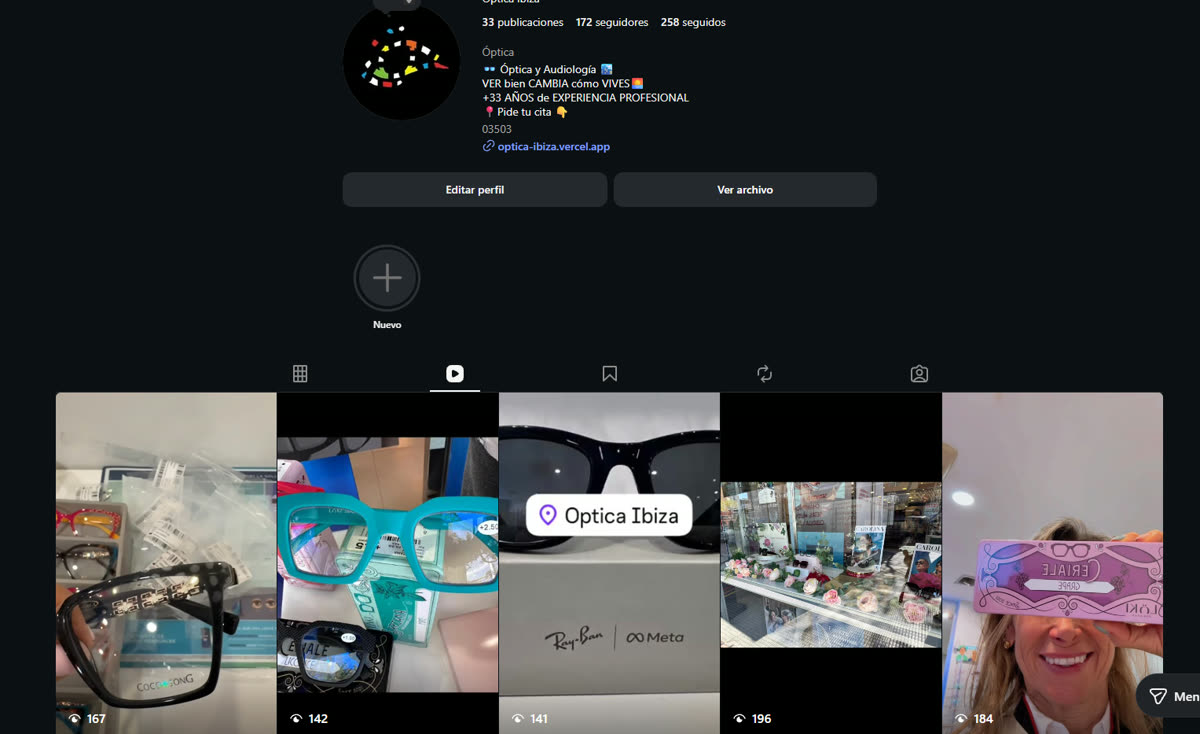
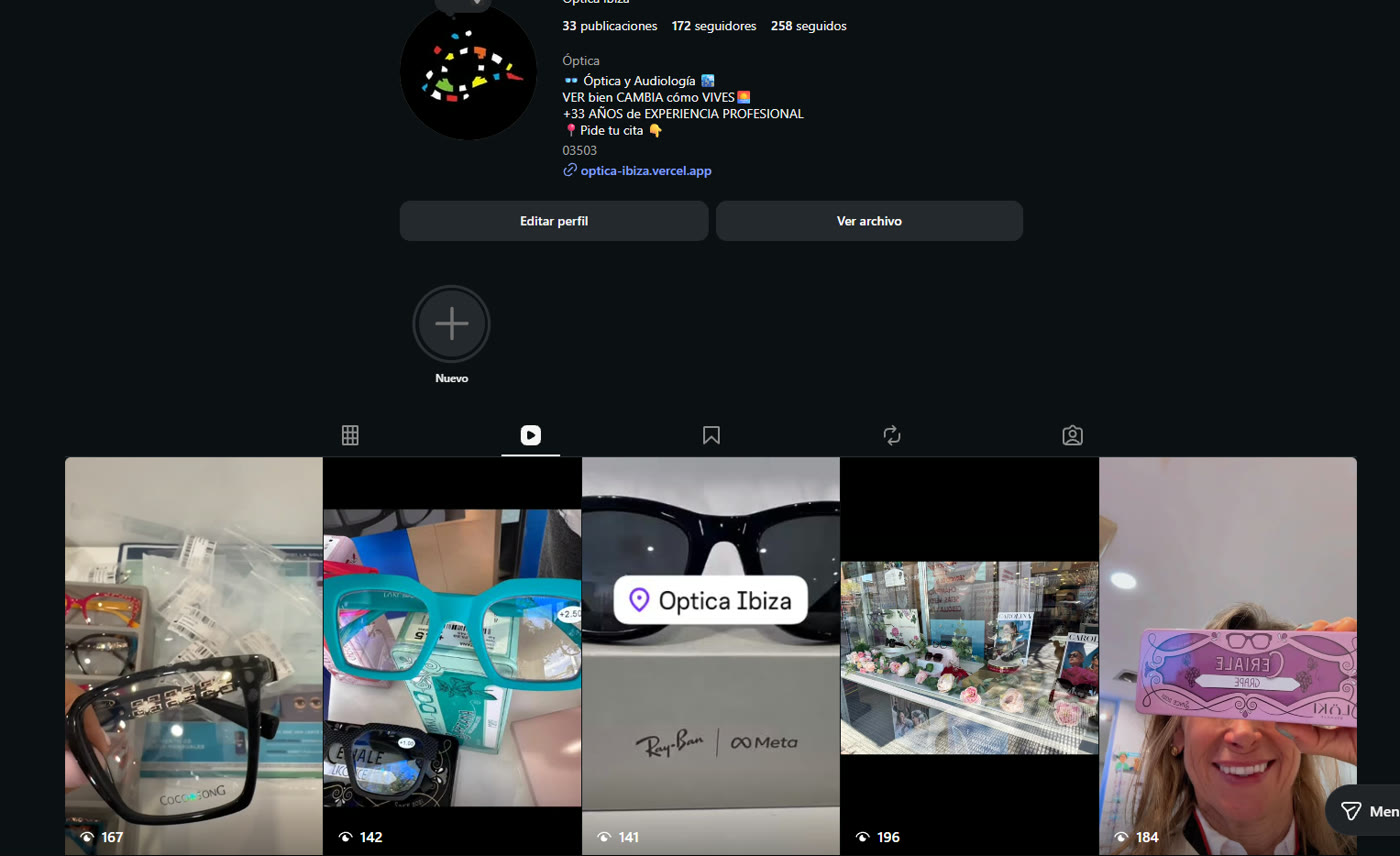
Casos: normalize antes/después to identical 1400x856 + wider block
Both before/after images now exactly the same width and height, rendered larger.

diff --git a/app/(marketing)/casos/page.tsx b/app/(marketing)/casos/page.tsx
@@ -87,7 +87,7 @@ export default function CasosPage() {
                 </div>
 
                 {/* ANTES / DESPUÉS — grande */}
-                <div className="mt-8 -mx-2 sm:-mx-4 lg:-mx-6">
+                <div className="mt-8 -mx-4 sm:-mx-6 lg:-mx-9">
                   <BeforeAfter
                     beforeSrc="/casos/cati/antes-instagram.jpg"
                     beforeAlt="Instagram de Óptica Ibiza con 172 seguidores antes de trabajar con Pronovamark"
